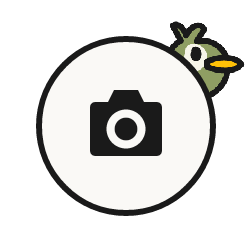
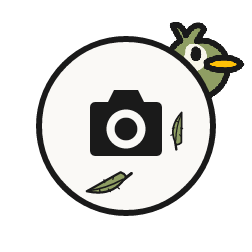
feat: update home view and camera functionality
- Revised the home view layout to enhance user interaction, including the repositioning of the camera element and adjustments to the display of pet-related information.
- Updated the camera functionality to ensure consistent sizing and positioning across different pet species.
- Improved the visual elements of the home page, including the adoption section and meal indicators.
- Enhanced the design of the custom tab bar for better navigation experience.

All tests passed successfully.

diff --git a/docs/agent/CURRENT_STATE.md b/docs/agent/CURRENT_STATE.md
@@ -1,6 +1,6 @@
 # Current Project State
 
-> Last updated: 2026-11-18
+> Last updated: 2026-11-19
 > Keep under ~2 pages. Record verified facts only. Update when status or findings materially change.
 
 ## 1. Current goal
@@ -21,9 +21,12 @@
 - 用户页：饭点、提醒、声音、隐私拆成四张图标卡片。
 - 领养页标题是「请选择」。四个外观显示为猫、狗、鸟、鱼。预览里确认领养后，如果当时首页是抽象人，回到首页会改成对应动物。
 - 首页未到打卡时间的餐卡是白底、灰色描边 `#6B6B6B`、灰字。已打卡仍是绿底，到点仍是黄底。
-- 拍立得顶上有黄色图钉，卡片仍向左倾。口粮是束口布袋。没有宠物时，人和「领养」以及普通相机放在餐卡和底栏之间的正中。
+- 拍立得顶上有黄色图钉，卡片仍向左倾。口粮是束口布袋。没有宠物时，人和「领养」在餐卡和底栏之间的正中。
+- 首页相机只有一处：猫那张的位置和 168rpx 大小。人、纪念和另外三种动物都用这一处。没有宠物时仍是普通圆框。
 - 食盘是稿子里那只盘子。打卡当时盛满丸子，之后按时间变淡，到下一顿饭点清空。口粮和零食不加。新的一餐打卡重新盛满这一盘，不会叠过稿子里的数量。
 - 首页是抽象人时（没宠物、纪念、冷却），相机是 `camera-plain.png`：圆框加中间相机符号，没有动物。有宠物时仍用各物种相机。
+- 底栏首页图标是一条连续的房子轮廓。打卡点仍在图标右上角，不压住描边。窗口内还有没打的餐才显示。
+- 2026-11-19：本地预览 `http://127.0.0.1:8765/` 把 17 个界面抓进新 Figma 文件 `https://www.figma.com/design/Zw6fojKp0fPw7YWrr4hLqW`。这是 HTML 近似（rpx 按 375 宽换成 px，没有微信运行时，首页缩放写死 0.86，底栏是预览里补上的）。预览没把 `stageScale` 和 `padTop` 写进页面，`.page` 又按浏览器窗口的 `100vh` 撑高。未领养页的人和「领养」在这块加高的区域里垂直居中，相机仍停在舞台 `top: 414px`，所以「领养」压住相机。这是抓图问题，小程序页面本身在 375×812 上两者分开。没有打开微信开发者工具。不要再用旧文件 `bS9hkr9GnnR1WiKVugtSjW`。
 
 ## 4. Current work
 
@@ -35,7 +38,8 @@
 - 宠物增加可选字段 `species`。旧档没有这个字段时按黑猫画。
 - 图鉴的星只表示三餐都是打卡。有口粮或只打了一部分会是绿格，没有星。连续天数的算法没改。
 - 打卡时段内和未到时段的空盘是同一张描边。白和灰差在格子的底色：白是 `#FFFFFF`，灰是 `#F7F8F9`。
-- 三个物种相机沿用「相机/未到饭点」的圆和符号。鹦鹉从圆框背后探出头，露在右侧。
+- 三个物种相机沿用「相机/未到饭点」的圆和符号，圆的位置和大小与猫相同。萨摩耶从圆的左侧探出上半个头，嘴咬住圆框，像咬住飞盘；嘴下有两颗顺着下巴方向的白色中空小尖牙。下巴在圆后面，不咬中间的相机符号。圆的位置和大小仍与猫相同。鹦鹉从圆框背后探出头，露在右侧；圆内相机符号的下方和右侧各有一根羽毛，羽尖方向不同。金鱼的水在下半、鱼在水里。金鱼相机的外圆放大到黑猫身体外缘：圆心到身体边缘约 122 像素，原来的圆是 90。耳朵尖更远，没有算进去。鱼、气泡和相机符号没有放大。
+- 吃饱和有点饿共用的 `samoyed.png` 嘴和鼻子改成和狗相机同一套：鼻子在上，浅笑在下，没有牙。浅笑下面有一条短的肉粉色舌头，在正中。很饿是平嘴，没有舌头。濒危嘴角下垂，没有舌头。这两张和吃饱一样，鼻子和嘴之间有一条短竖线。眼睛分别仍是睁开、半阖、闭上。
 - 2026-11-18：界面锁定。饥饿、健康、等级留在首页左上角。
 - 2026-11-18：饭点里点相机，可选还没打的那一餐，也可以另记零食。零食不代替这一餐。没有待打的餐时，相机直接记零食。
 - 2026-11-18：三餐打卡时间不能重合。窗口仍是饭点前后 1 小时、左闭右开，恰好隔 2 小时允许。见 ADR-0003。

diff --git a/docs/agent/ARCHITECTURE.md b/docs/agent/ARCHITECTURE.md
@@ -95,7 +95,7 @@ domain/             纯规则。只依赖自己
 
 ## 页面和范围
 
-- 没有独立宠物页。没宠物时首页是抽象人和「领养」，相机只是圆框和相机符号。死亡后、冷却结束前，首页可以进纪念册。冷却结束后回到没有宠物的首页。活着时首页不贴情绪词。左上角是饥饿、健康、等级。陪伴天数在半屏。当天打卡留下的照片停在首页，从左到右是早餐、午餐、晚餐，不按打卡后的分钟数消失。打卡往食盘里加一盘丸子，越靠近下一顿饭点丸子越少，到饭点清空。口粮和零食不加丸子。
+- 没有独立宠物页。没宠物时首页是抽象人和「领养」，相机只是圆框和相机符号，位置和大小与有宠物时相同。死亡后、冷却结束前，首页可以进纪念册。冷却结束后回到没有宠物的首页。活着时首页不贴情绪词。左上角是饥饿、健康、等级。陪伴天数在半屏。当天打卡留下的照片停在首页，从左到右是早餐、午餐、晚餐，不按打卡后的分钟数消失。打卡往食盘里加一盘丸子，越靠近下一顿饭点丸子越少，到饭点清空。口粮和零食不加丸子。
 - 打卡页：拍照、相册、主按钮「完成打卡」、次级应急口粮。已打卡态只有替换照片和删除打卡。一餐可多张，首屏一张主图。`checkin` 和 `exempt` 请求不带日期，日期由服务端按用户时区算，客户端传来的日期被丢弃；`deleteCheckin` 带日期，因为以后图鉴里能删以前的记录。有待打的餐时，点相机先选这一餐或零食；没有待打的餐时直接进零食记录页。`snack` 请求只带照片、不带日期和餐次；`deleteSnack` 带日期和这份零食的起点时刻。
 - 声音与震动在「我的」里是独立一页。音效默认关，震动默认开，偏好存本机，不上云。
 - 饭点修改次日 04:00 生效，本轮不限次数。三餐的打卡时间不能重合。窗口是饭点前后 1 小时，左闭右开，所以相邻饭点至少隔 2 小时；恰好 2 小时只是端点相接，不算重合。饭点不能落在 03:01 到 04:59，否则窗口会跨过逻辑日界线。连续两天改饭点，前一次的改动先并入生效饭点，再放新的待生效饭点。逻辑日从该时区 04:00 开始。时区由客户端按设备当前时区传入，服务端不用服务器时区。
